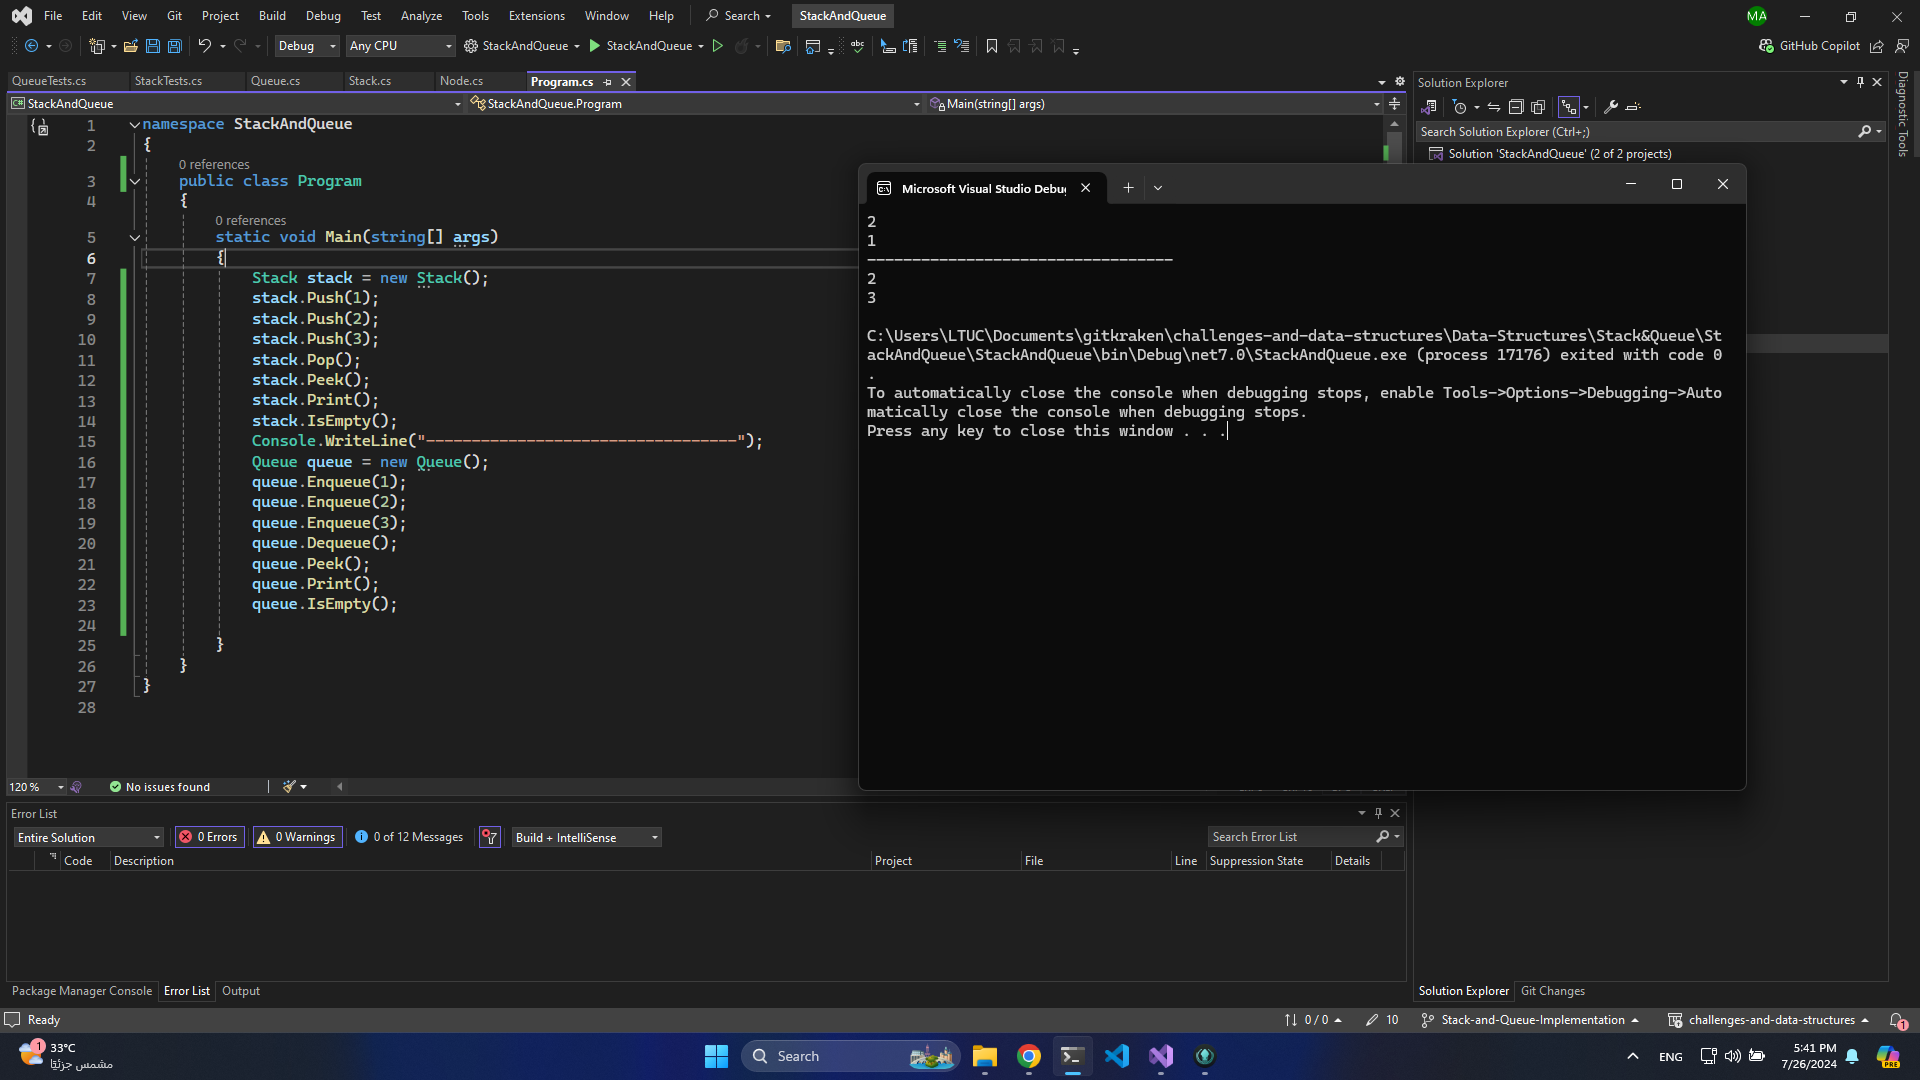
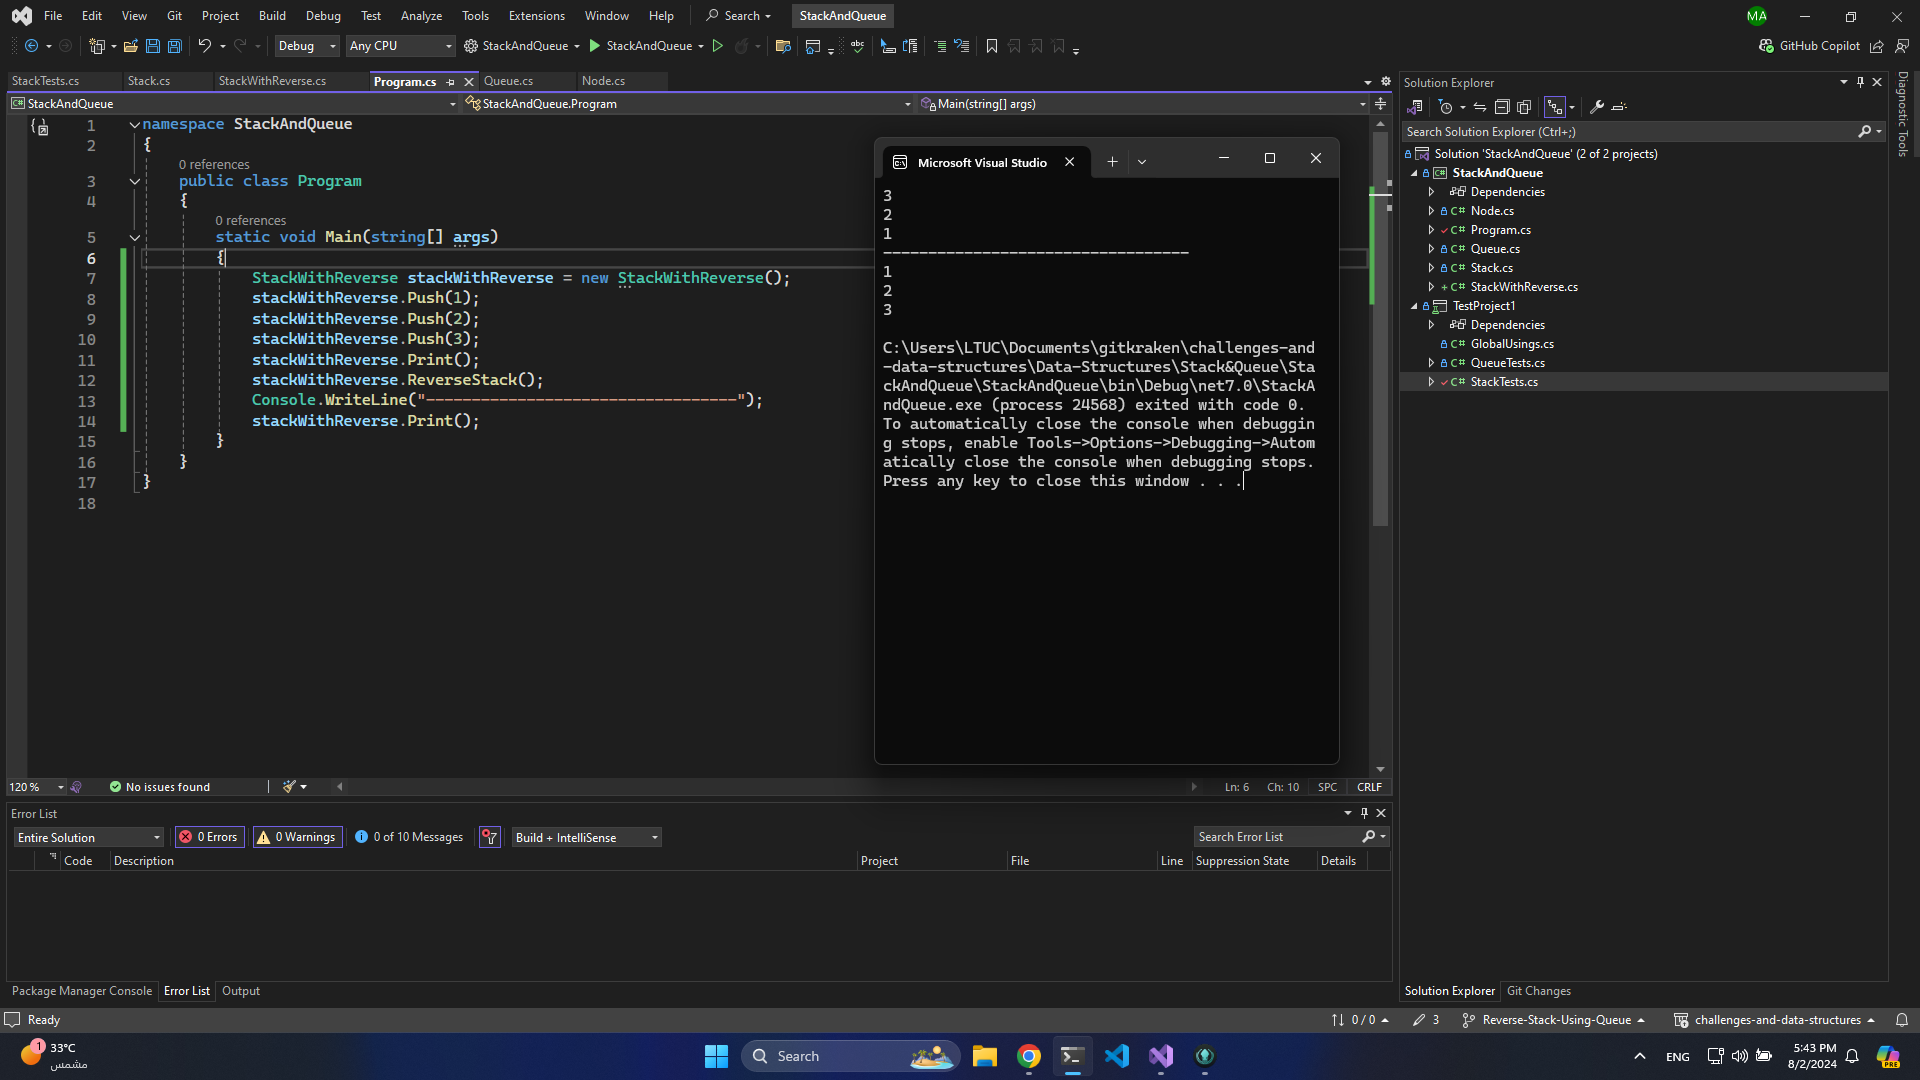
ReverseStack

diff --git a/Data-Structures/Stack&Queue/StackAndQueue/TestProject1/StackTests.cs b/Data-Structures/Stack&Queue/StackAndQueue/TestProject1/StackTests.cs
@@ -41,5 +41,47 @@ namespace TestProject1
             // Assert
             Assert.True(isEmpty);
         }
+        [Fact]
+        public void StackWithReverseTest()
+        {
+            // Arrange
+            StackWithReverse stackWithReverse = new StackWithReverse();
+            stackWithReverse.Push(1);
+            stackWithReverse.Push(2);
+            stackWithReverse.Push(3);
+
+            // Act
+            stackWithReverse.ReverseStack();
+
+            // Assert
+            Assert.Equal(1, stackWithReverse.Pop());
+            Assert.Equal(2, stackWithReverse.Pop());
+            Assert.Equal(3, stackWithReverse.Pop());
+        }
+        [Fact]
+        public void StackWithReverseEmptyTest()
+        {
+            // Arrange
+            StackWithReverse stackWithReverse = new StackWithReverse();
+
+            // Act
+            stackWithReverse.ReverseStack();
+
+            // Assert
+            Assert.True(stackWithReverse.IsEmpty());
+        }
+        [Fact]
+        public void StackWithReverseOneElementTest()
+        {
+            // Arrange
+            StackWithReverse stackWithReverse = new StackWithReverse();
+            stackWithReverse.Push(1);
+
+            // Act
+            stackWithReverse.ReverseStack();
+
+            // Assert
+            Assert.Equal(1, stackWithReverse.Pop());
+        }
     }
 }

diff --git a/Data-Structures/Stack&Queue/StackAndQueue/StackAndQueue/Program.cs b/Data-Structures/Stack&Queue/StackAndQueue/StackAndQueue/Program.cs
@@ -4,24 +4,14 @@
     {
         static void Main(string[] args)
         {
-            Stack stack = new Stack();
-            stack.Push(1);
-            stack.Push(2);
-            stack.Push(3);
-            stack.Pop();
-            stack.Peek();
-            stack.Print();
-            stack.IsEmpty();
+            StackWithReverse stackWithReverse = new StackWithReverse();
+            stackWithReverse.Push(1);
+            stackWithReverse.Push(2);
+            stackWithReverse.Push(3);
+            stackWithReverse.Print();
+            stackWithReverse.ReverseStack();
             Console.WriteLine("----------------------------------");
-            Queue queue = new Queue();
-            queue.Enqueue(1);
-            queue.Enqueue(2);
-            queue.Enqueue(3);
-            queue.Dequeue();
-            queue.Peek();
-            queue.Print();
-            queue.IsEmpty();
-
+            stackWithReverse.Print();
         }
     }
 }

diff --git a/Data-Structures/Stack&Queue/StackAndQueue/StackAndQueue/StackWithReverse.cs b/Data-Structures/Stack&Queue/StackAndQueue/StackAndQueue/StackWithReverse.cs
@@ -1,0 +1,28 @@
+using System;
+using System.Collections.Generic;
+using System.Linq;
+using System.Text;
+using System.Threading.Tasks;
+
+namespace StackAndQueue
+{
+    public class StackWithReverse : Stack
+    {
+        public void ReverseStack()
+        {
+            if (IsEmpty())
+            {
+                return;
+            }
+            Queue queue = new Queue();
+            while (!IsEmpty())
+            {
+                queue.Enqueue(Pop());
+            }
+            while (!queue.IsEmpty())
+            {
+                Push(queue.Dequeue());
+            }
+        }
+    }
+}

diff --git a/README.md b/README.md
@@ -44,3 +44,7 @@
 
 ![Stack & Queue Implementation](Data-Structures/Stack&Queue/Image1.jpg)
 ![Stack & Queue Implementation](Data-Structures/Stack&Queue/Image2.jpg)
+
+### Reverse a Stack using Queue
+
+![Reverse a Stack using Queue](Data-Structures/Stack&Queue/Image3.jpg)
